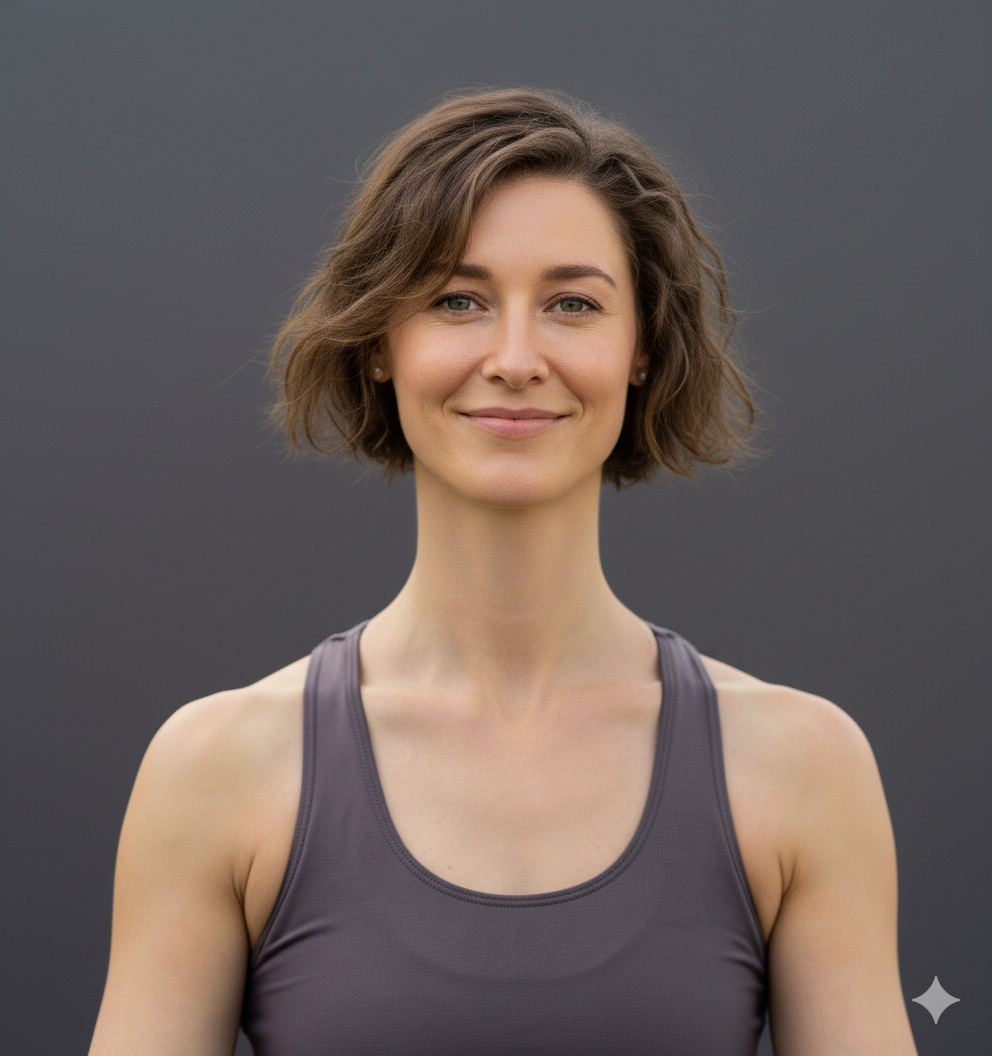
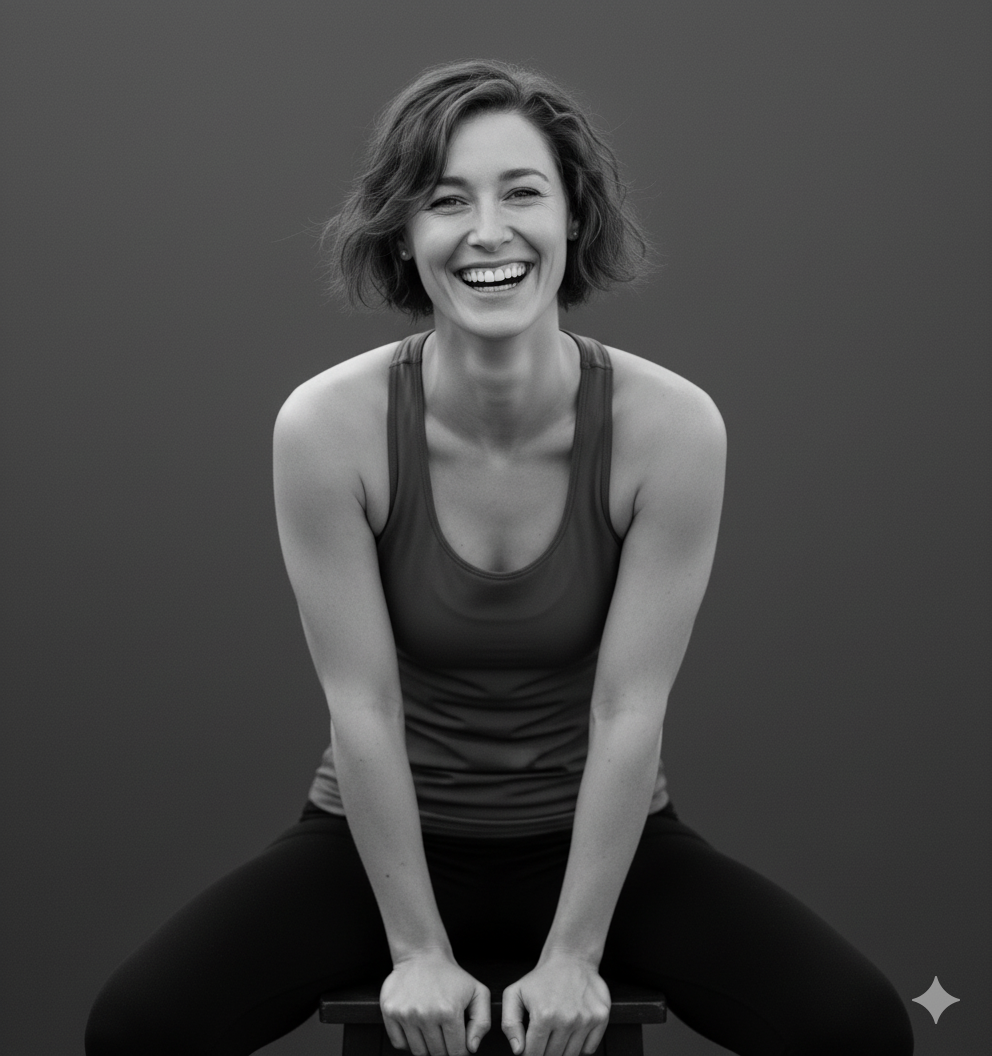
edited pictures

diff --git a/index.html b/index.html
@@ -69,7 +69,7 @@
 						<!-- About -->
 						<article id="about">
 							<h2 class="major">Über mich</h2>
-							<span class="image main"><img src="images/pic03_1.png" alt="Porträt oder Symbolbild" /></span>
+							<span class="image main"><img src="images/pic03_2.png" alt="Porträt oder Symbolbild" /></span>
 							<p>Schon früh habe ich gespürt, wie stark die Verbindung zwischen Körper, Geist und Natur ist.  
 							Nach meiner Ausbildung zur Yogalehrerin (RYS 200) und meiner Weiterbildung in Aromatherapie durfte ich viele Menschen auf ihrem Weg zu mehr Ruhe und Selbstwahrnehmung begleiten.</p>
 							<p>Ich glaube daran, dass Heilung im Kleinen beginnt – in Achtsamkeit, Bewegung und Düften, die uns erden und inspirieren.</p>
